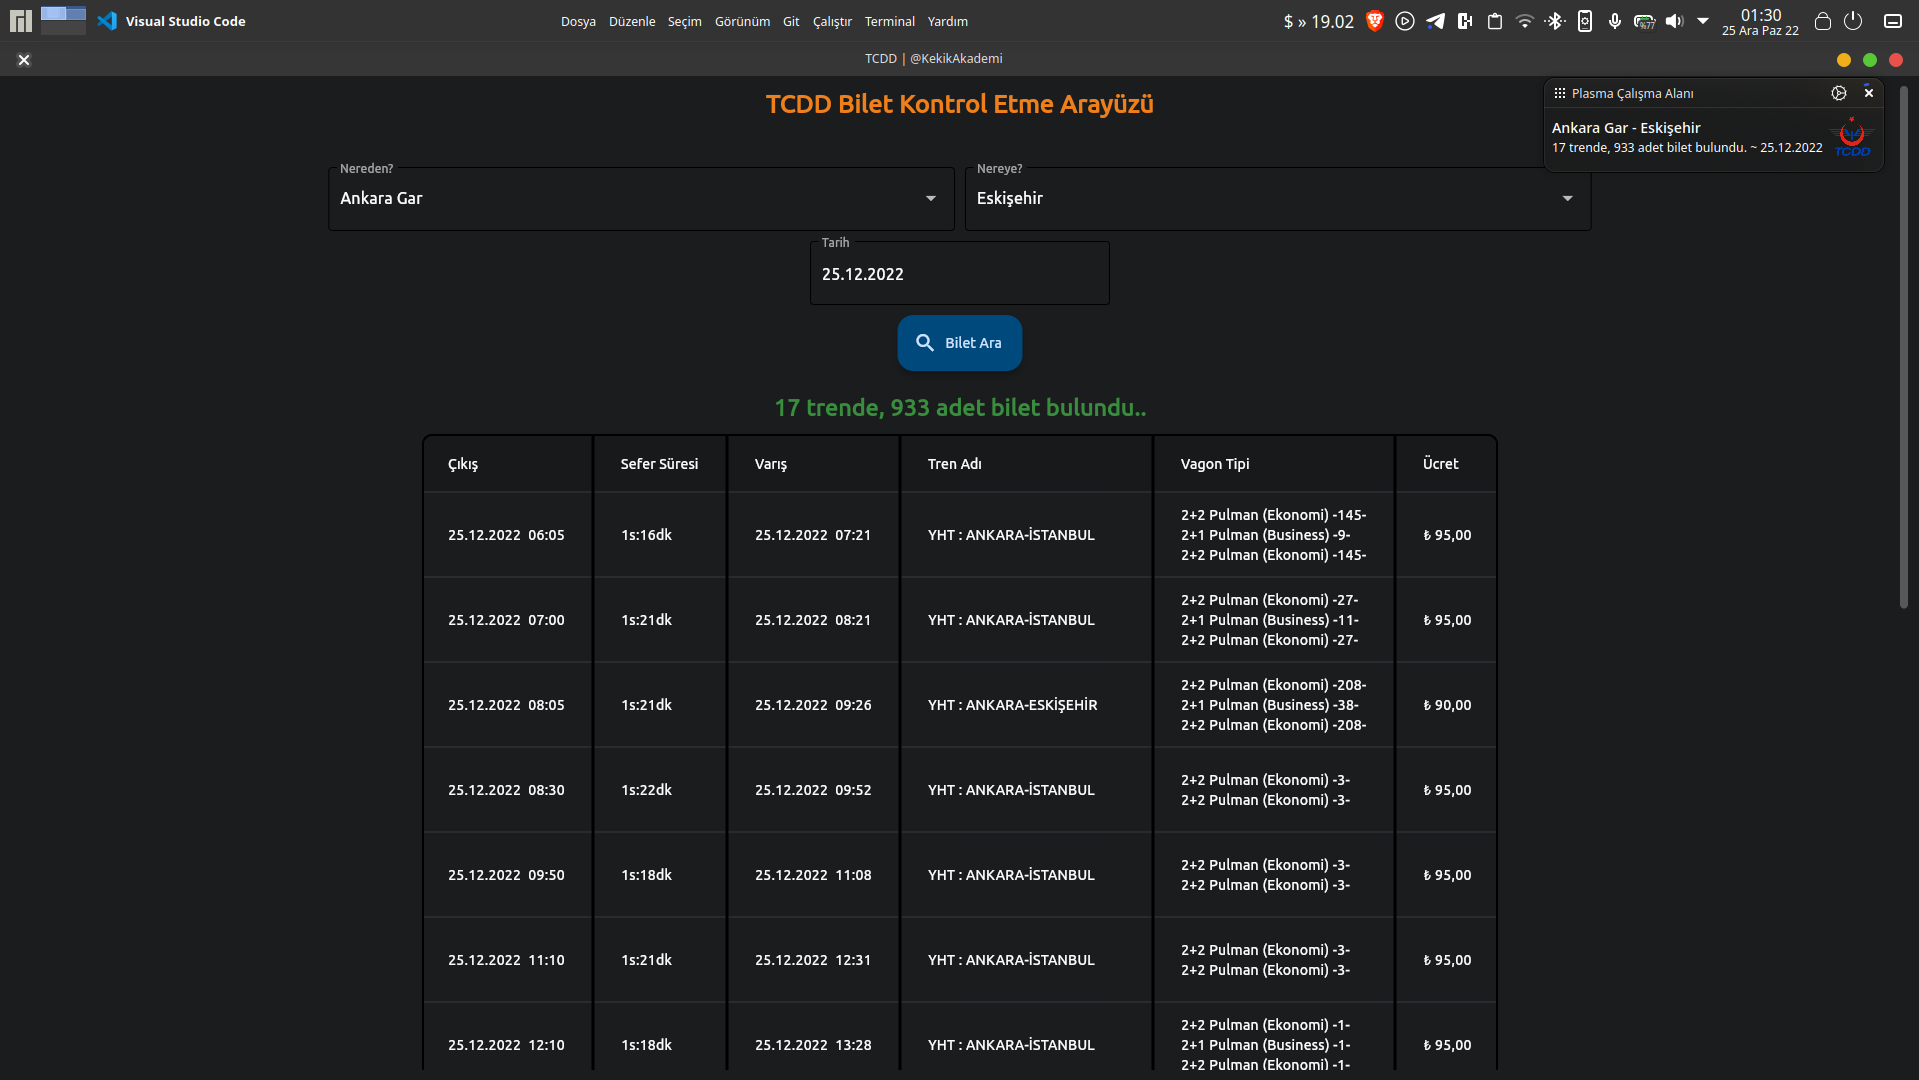
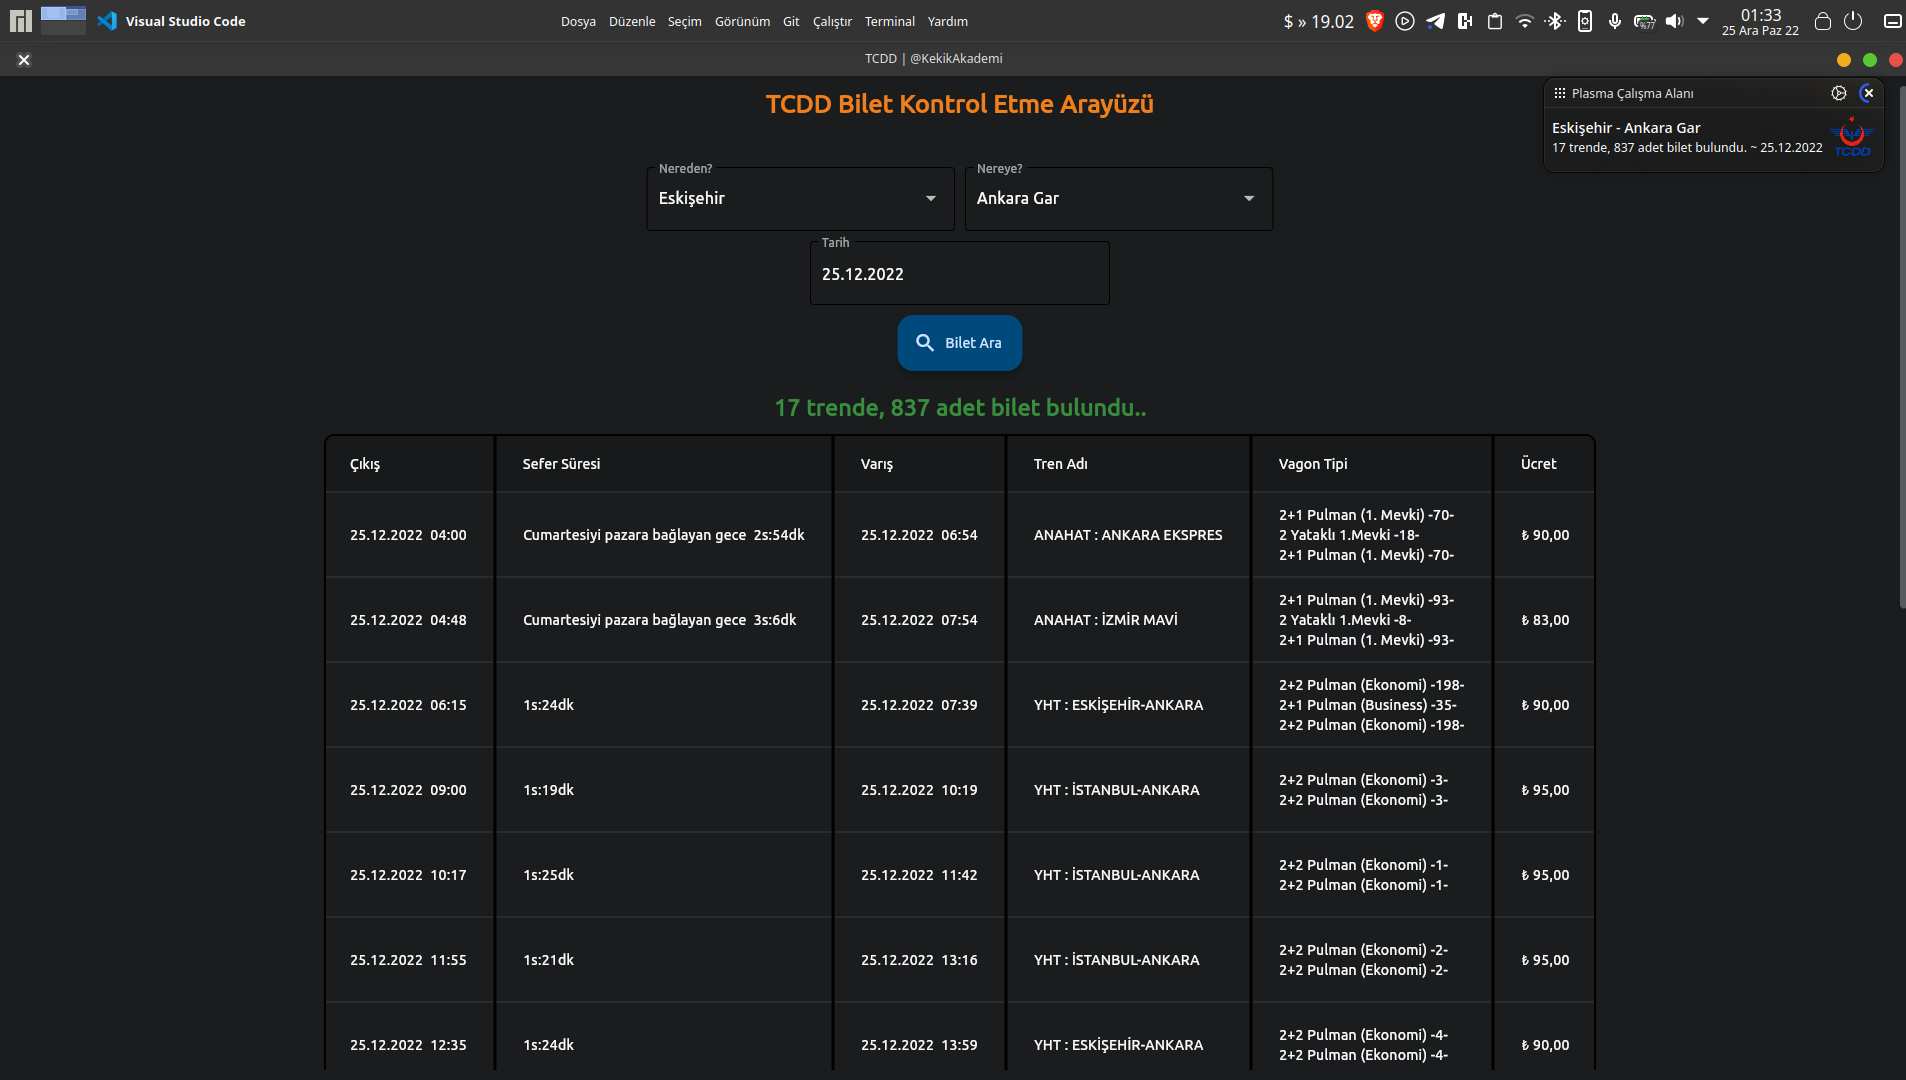
🕊
🕊

diff --git a/Layouts/Panel.py b/Layouts/Panel.py
@@ -29,8 +29,8 @@ class Panel(UserControl):
         self.sayfa.update()
 
         self.baslik      = Text("TCDD Bilet Kontrol Etme Arayüzü", size=25, weight="bold", color="#EF7F1A")
-        self.nerden      = Dropdown(label="Nereden?", hint_text="Nereden?", col={"md": 4}, options=[DropdownOption(durak) for durak in self.tcdd.duraklar], autofocus=True)
-        self.nereye      = Dropdown(label="Nereye?",  hint_text="Nereye?",  col={"md": 4}, options=[DropdownOption(durak) for durak in self.tcdd.duraklar])
+        self.nerden      = Dropdown(label="Nereden?", hint_text="Nereden?", col={"md": 2}, options=[DropdownOption(durak) for durak in self.tcdd.duraklar], autofocus=True)
+        self.nereye      = Dropdown(label="Nereye?",  hint_text="Nereye?",  col={"md": 2}, options=[DropdownOption(durak) for durak in self.tcdd.duraklar])
         self.tarih       = TextField(label="Tarih",   hint_text=bugun(), value=bugun(), on_submit=lambda e: self.bilet_ara(e))
         self.ara_buton   = FloatingActionButton(text="Bilet Ara", icon=icons.SEARCH, on_click=self.bilet_ara)
         self.araniyor    = ProgressRing(visible=False)
@@ -42,7 +42,7 @@ class Panel(UserControl):
                 [
                     Row([self.baslik], alignment="center"),
                     Row([], alignment="center", height=25),
-                    ResponsiveRow([self.nerden, self.nereye], alignment="center", run_spacing={"xs": 10}),
+                    ResponsiveRow([self.nerden, self.nereye], alignment="center"),
                     Row([self.tarih], alignment="center"),
                     Row([self.ara_buton], alignment="center"),
                     Row([self.araniyor], alignment="center"),
